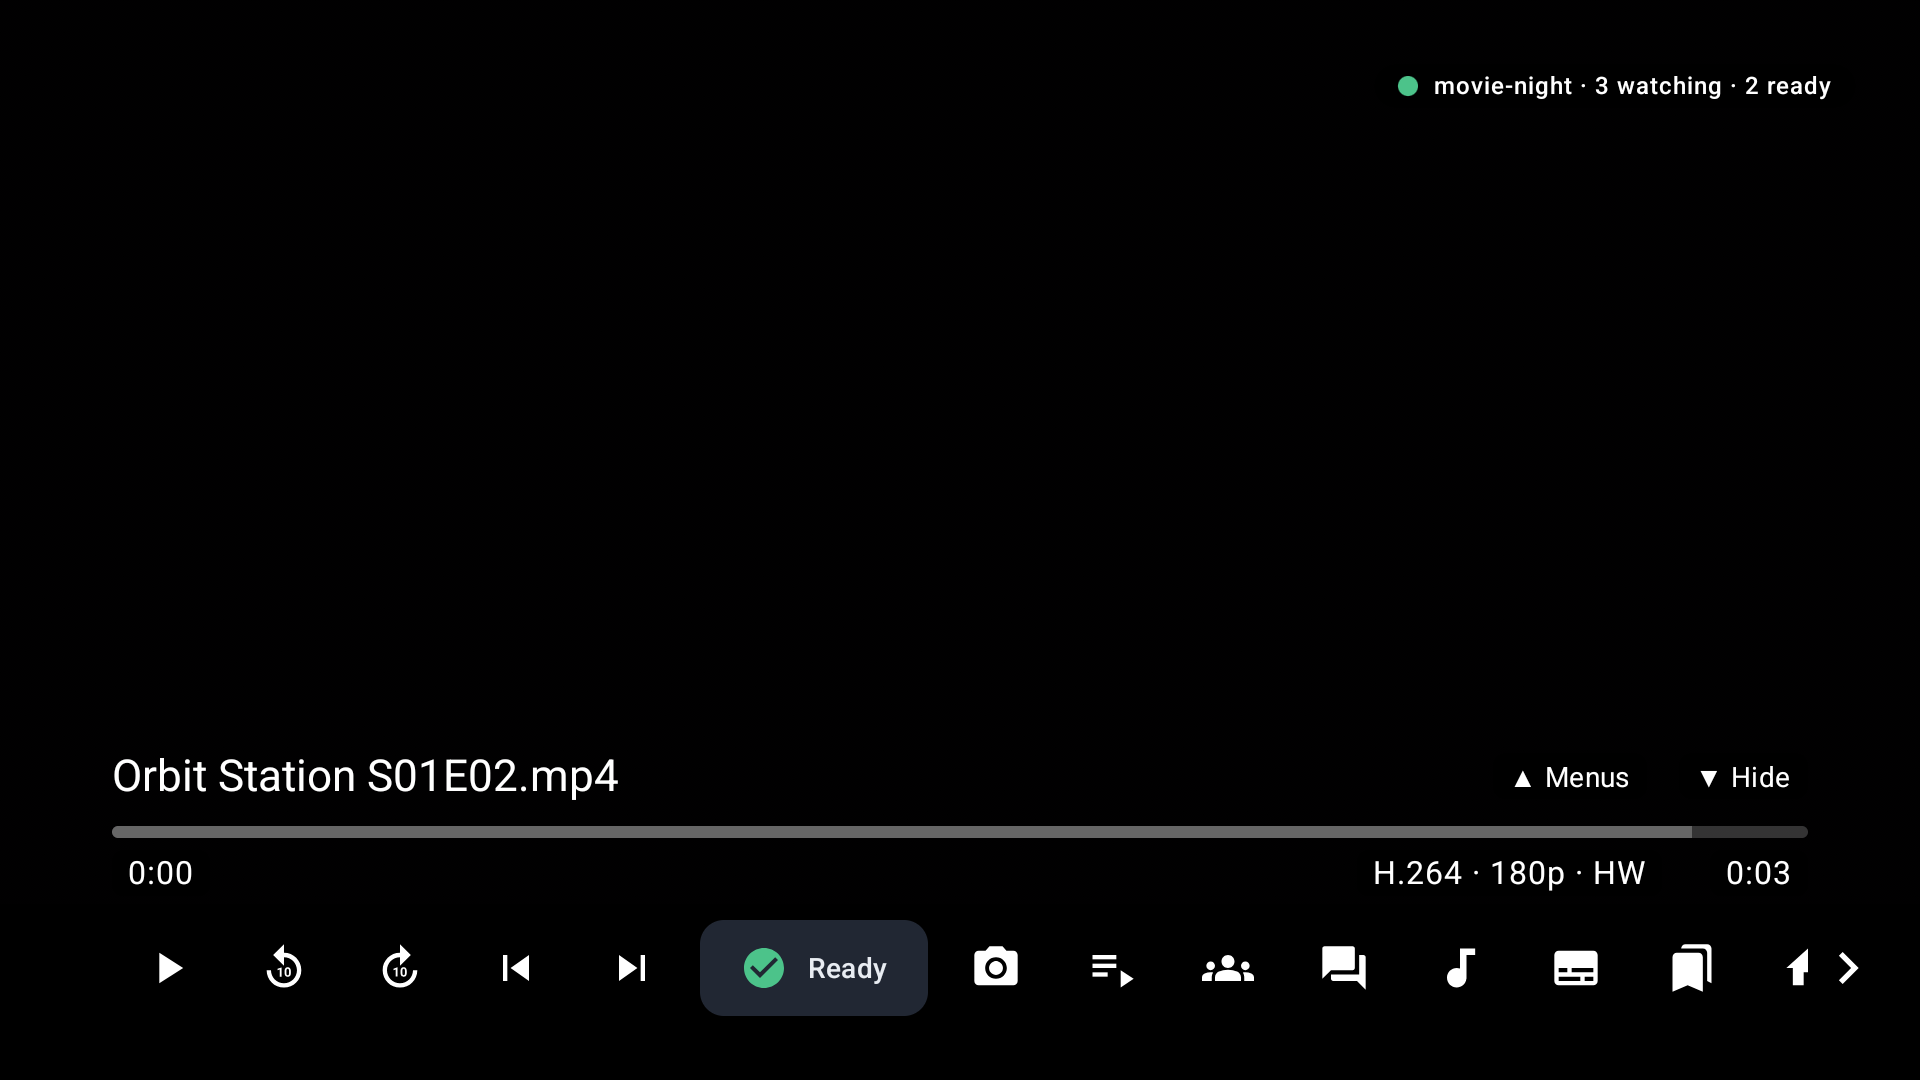
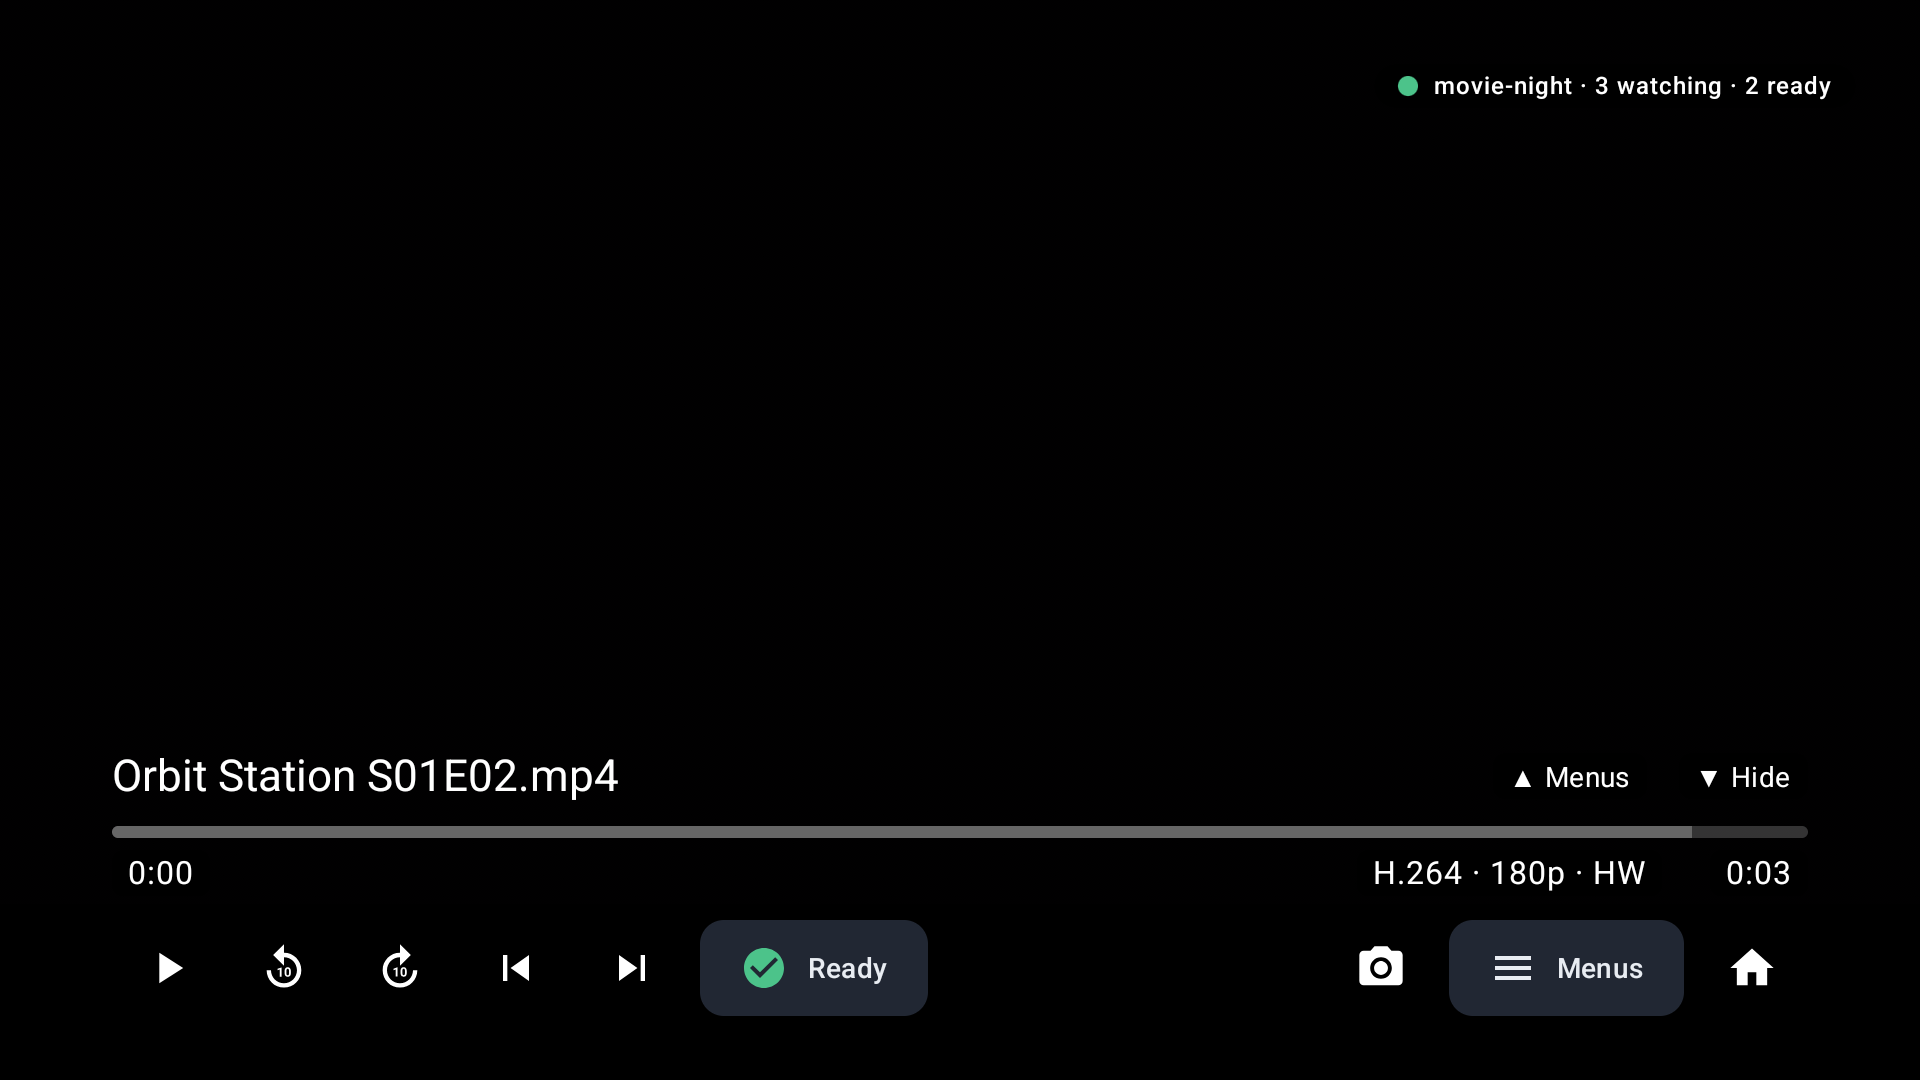
The TV player's controls have one Menus button in place of a button per menu, which opens the menu used last (its tabs switch to the others, and OK on a tab goes into it), so every button fits in one row

diff --git a/app/src/androidTest/java/com/yarmiplaytv/tv/TvNavigationTest.kt b/app/src/androidTest/java/com/yarmiplaytv/tv/TvNavigationTest.kt
@@ -284,63 +284,45 @@ class TvNavigationTest {
 
         tv.key(KeyEvent.KEYCODE_DPAD_CENTER)
         tv.awaitFocus("Play/pause")
-        // Left to right: play/pause, back 10 s, forward 10 s, the playlist's previous and next entry, ready, screenshot,
-        // then the panel buttons.
-        val row = listOf("Back", "Forward", "Previous in the playlist", "Next in the playlist", "Ready", "Screenshot", "Shared playlist", "Room", "Chat", "Audio", "Subtitles")
-        // What gets focus when each panel opens; TEXT_FIELD is the chat's message field.
-        val panels = listOf("Shared playlist" to Scenarios.CLIP_NAME, "Room" to "I'm ready", "Chat" to TEXT_FIELD, "Audio" to "", "Subtitles" to "Off")
-        for ((button, focused) in panels) {
-            for (next in row.subList(0, row.indexOf(button) + 1)) {
-                tv.key(KeyEvent.KEYCODE_DPAD_RIGHT)
-                tv.awaitFocus(next)
-            }
-            tv.key(KeyEvent.KEYCODE_DPAD_CENTER)
-            when (button) {
-                "Shared playlist" -> { tv.await("everyone sees these changes"); tv.await("File size differs from Alex's") }
-                "Room" -> tv.await("Different size than yours")
-                "Chat" -> tv.await("Give me a minute")
-                "Audio" -> tv.await("Audio")
-                else -> Unit
-            }
-            when (focused) {
-                TEXT_FIELD -> tv.awaitFocusedTextField()
-                "" -> Unit
-                else -> tv.awaitFocus(focused)
-            }
-            // Back closes the panel, straight back to the video.
-            tv.back()
-            tv.awaitGone(HIDE_HINT)
-            tv.key(KeyEvent.KEYCODE_DPAD_CENTER)
-            tv.awaitFocus("Play/pause")
+        // Left to right, all in one row: play/pause, back 10 s, forward 10 s, the playlist's previous and next entry,
+        // ready, screenshot, the menus, browse.
+        for (next in listOf("Back", "Forward", "Previous in the playlist", "Next in the playlist", "Ready", "Screenshot", "Menus", "Browse")) {
+            tv.key(KeyEvent.KEYCODE_DPAD_RIGHT)
+            tv.awaitFocus(next)
         }
-        tv.back()
-        tv.awaitGone(HIDE_HINT)
-        // D-pad up with the controls hidden opens the panel used last; up again reaches its tab, and moving along
-        // the tabs switches panel.
-        tv.key(KeyEvent.KEYCODE_DPAD_UP)
-        tv.awaitFocus("Off")
-        tv.key(KeyEvent.KEYCODE_DPAD_UP)
-        tv.awaitFocus("Subtitles")
+        // Menus opens the room the first time.
         tv.key(KeyEvent.KEYCODE_DPAD_LEFT)
-        tv.awaitFocus("Audio")
+        tv.awaitFocus("Menus")
+        tv.key(KeyEvent.KEYCODE_DPAD_CENTER)
+        tv.awaitFocus("I'm ready")
+        tv.await("Different size than yours")
+        // Up reaches the room's tab, and moving along the tabs switches menu.
+        tv.key(KeyEvent.KEYCODE_DPAD_UP)
+        tv.awaitFocus("Room")
         tv.key(KeyEvent.KEYCODE_DPAD_LEFT)
+        tv.awaitFocus("Shared playlist")
+        tv.await("everyone sees these changes"); tv.await("File size differs from Alex's")
+        tv.key(KeyEvent.KEYCODE_DPAD_RIGHT, times = 2)
         tv.awaitFocus("Chat")
         tv.await("Give me a minute")
-        tv.key(KeyEvent.KEYCODE_DPAD_LEFT)
-        tv.awaitFocus("Room")
-        tv.await("Different size than yours")
+        tv.key(KeyEvent.KEYCODE_DPAD_RIGHT)
+        tv.awaitFocus("Audio")
+        tv.key(KeyEvent.KEYCODE_DPAD_RIGHT)
+        tv.awaitFocus("Subtitles")
         tv.key(KeyEvent.KEYCODE_DPAD_DOWN)
-        tv.awaitFocus("I'm ready")
-        // The focus stays in the panel: left goes nowhere behind it.
+        tv.awaitFocus("Off")
+        // The focus stays in the menu: left goes nowhere behind it.
         tv.key(KeyEvent.KEYCODE_DPAD_LEFT)
-        tv.awaitFocus("I'm ready")
-        // Menu closes it too, and up opens the room panel again.
-        tv.key(KeyEvent.KEYCODE_MENU)
-        tv.awaitGone("I'm ready")
-        tv.key(KeyEvent.KEYCODE_DPAD_UP)
-        tv.awaitFocus("I'm ready")
+        tv.awaitFocus("Off")
+        // Back closes it, straight back to the video; up opens the menu used last.
         tv.back()
-        tv.awaitGone("I'm ready")
+        tv.awaitGone("Off")
+        tv.awaitGone(HIDE_HINT)
+        tv.key(KeyEvent.KEYCODE_DPAD_UP)
+        tv.awaitFocus("Off")
+        // Menu closes it too.
+        tv.key(KeyEvent.KEYCODE_MENU)
+        tv.awaitGone("Off")
         // Down and Menu each show and hide the controls.
         for (key in listOf(KeyEvent.KEYCODE_DPAD_DOWN, KeyEvent.KEYCODE_MENU)) {
             tv.key(key)
@@ -349,14 +331,14 @@ class TvNavigationTest {
             tv.key(key)
             tv.awaitGone(HIDE_HINT)
         }
-        // Up from the controls' buttons opens the panel used last.
+        // Up from the controls' buttons opens the menu used last.
         tv.key(KeyEvent.KEYCODE_DPAD_CENTER)
         tv.awaitFocus("Play/pause")
         tv.key(KeyEvent.KEYCODE_DPAD_UP)
-        tv.awaitFocus("I'm ready")
+        tv.awaitFocus("Off")
         tv.awaitGone(HIDE_HINT)
         tv.back()
-        tv.awaitGone("I'm ready")
+        tv.awaitGone("Off")
         tv.awaitGone(HIDE_HINT)
         assertEquals(true, container.player.state.value.paused)
     }
@@ -381,8 +363,7 @@ class TvNavigationTest {
     }
 
     companion object {
-        private const val TEXT_FIELD = "<text field>"
-        private const val HIDE_HINT = "▼ Hide"
+            private const val HIDE_HINT = "▼ Hide"
         private val state = AppState()
         private lateinit var syncplay: FakeSyncplayServer
         private lateinit var jellyfin: FakeJellyfin

diff --git a/app/src/main/java/com/yarmiplaytv/ui/player/PlayerScreen.kt b/app/src/main/java/com/yarmiplaytv/ui/player/PlayerScreen.kt
@@ -40,6 +40,7 @@ import androidx.compose.material.icons.filled.Forum
 import androidx.compose.material.icons.filled.Forward10
 import androidx.compose.material.icons.filled.Groups
 import androidx.compose.material.icons.filled.Home
+import androidx.compose.material.icons.filled.Menu
 import androidx.compose.material.icons.filled.Pause
 import androidx.compose.material.icons.filled.PhotoCamera
 import androidx.compose.material.icons.filled.PictureInPictureAlt
@@ -320,11 +321,10 @@ fun PlayerScreen(container: AppContainer, nav: Navigator) {
                 container = container,
                 title = nowPlaying?.title ?: "Nothing playing",
                 controlsFocus = controlsFocus,
-                panels = panels,
                 pip = pip,
                 onTogglePause = ::togglePause,
                 onSeek = ::seekBy,
-                onOpenPanel = { openPanel(it) },
+                onOpenMenus = { openPanel(lastPanel) },
                 onHome = { nav.popTo(Screen.Home) },
                 modifier = Modifier.align(Alignment.BottomCenter).onSizeChanged { tvControlsHeight = with(density) { it.height.toDp() } },
             )
@@ -343,7 +343,7 @@ fun PlayerScreen(container: AppContainer, nav: Navigator) {
                     .focusGroup(),
             ) {
                 Column {
-                    PanelTabs(panels, side.kind, tabFocus, onFocusTab = { if (it != side.kind) openPanel(it, focusContent = false) })
+                    PanelTabs(panels, side.kind, tabFocus, onFocusTab = { if (it != side.kind) openPanel(it, focusContent = false) }, onClickTab = { openPanel(it) })
                     Box(Modifier.weight(1f)) {
                         when (side.kind) {
                             PanelKind.PLAYLIST -> PlaylistPanel(container, nav, panelFocus)
@@ -507,11 +507,11 @@ private fun ControlsBar(
     container: AppContainer,
     title: String,
     controlsFocus: FocusRequester,
-    panels: List<PanelKind>,
     pip: PictureInPicture,
     onTogglePause: () -> Unit,
     onSeek: (Double) -> Unit,
-    onOpenPanel: (PanelKind) -> Unit,
+    /** Opens the menu used last; its tabs switch to the others. */
+    onOpenMenus: () -> Unit,
     onHome: () -> Unit,
     modifier: Modifier = Modifier,
 ) {
@@ -585,15 +585,15 @@ private fun ControlsBar(
             if (pip.supported && state.fileLoaded) {
                 IconAction(Icons.Filled.PictureInPictureAlt, pictureInPictureLabel, pip.toggle, Modifier.testTag("pip"), tint = OnVideo.Text)
             }
-            panels.forEach { kind -> IconAction(kind.icon, kind.label, { onOpenPanel(kind) }, tint = OnVideo.Text) }
+            ActionButton("Menus", onOpenMenus, Modifier.testTag("menus"), icon = Icons.Filled.Menu)
             IconAction(Icons.Filled.Home, "Browse", onHome, tint = OnVideo.Text)
         })
     }
 }
 
 /**
- * The bar's buttons: [start] at the left and [end] at the right, or one after the other when they don't fit, in a row
- * that scrolls to whichever has the focus, with an arrow at each side that has more.
+ * The bar's buttons: [start] at the left and [end] at the right. They fit on a 1080p TV; with larger text they follow
+ * one another in a row that scrolls to whichever has the focus, with an arrow at each side that has more.
  */
 @Composable
 private fun ButtonRow(modifier: Modifier = Modifier, start: @Composable RowScope.() -> Unit, end: @Composable RowScope.() -> Unit) {
@@ -621,11 +621,17 @@ private fun MoreArrow(icon: ImageVector, modifier: Modifier) =
     Icon(icon, contentDescription = null, tint = OnVideo.Text, modifier = modifier.size(32.dp))
 
 /**
- * The panels' tabs, at the top of the open one: moving along them switches panel. Coming up from the panel, the
- * focus lands on its own tab, not whichever is above.
+ * The panels' tabs, at the top of the open one: moving along them switches panel, and OK goes into it. Coming up from
+ * the panel, the focus lands on its own tab, not whichever is above.
  */
 @Composable
-private fun PanelTabs(panels: List<PanelKind>, selected: PanelKind, tabFocus: Map<PanelKind, FocusRequester>, onFocusTab: (PanelKind) -> Unit) {
+private fun PanelTabs(
+    panels: List<PanelKind>,
+    selected: PanelKind,
+    tabFocus: Map<PanelKind, FocusRequester>,
+    onFocusTab: (PanelKind) -> Unit,
+    onClickTab: (PanelKind) -> Unit,
+) {
     Row(
         Modifier.padding(start = 24.dp, end = 24.dp, top = 20.dp)
             .focusProperties { onEnter = { tabFocus.getValue(selected).requestFocus() } }
@@ -635,7 +641,7 @@ private fun PanelTabs(panels: List<PanelKind>, selected: PanelKind, tabFocus: Ma
         panels.forEach { kind ->
             val current = kind == selected
             Surface(
-                onClick = { onFocusTab(kind) },
+                onClick = { onClickTab(kind) },
                 modifier = Modifier.size(48.dp).focusRequester(tabFocus.getValue(kind)).onFocusChanged { if (it.isFocused) onFocusTab(kind) }.testTag("panel_tab_${kind.name.lowercase()}"),
                 shape = ClickableSurfaceDefaults.shape(CircleShape),
                 colors = ClickableSurfaceDefaults.colors(

diff --git a/app/src/androidTest/java/com/yarmiplaytv/tv/TvScreenshotTest.kt b/app/src/androidTest/java/com/yarmiplaytv/tv/TvScreenshotTest.kt
@@ -149,6 +149,8 @@ class TvScreenshotTest {
         shot("player")
         tv.key(KeyEvent.KEYCODE_DPAD_CENTER); tv.await("0:00")
         shot("player_controls", ignore = listOf(SEEK_BAR_CACHE_END))
+        // Menus opens the room; each menu's tab switches to it.
+        tv.click("Menus"); tv.await("I'm ready")
         val panels = listOf("Shared playlist" to "playlist", "Room" to "room", "Chat" to "chat", "Audio" to "audio", "Subtitles" to "subtitles")
         for ((label, slug) in panels) {
             tv.click(label)
@@ -162,8 +164,6 @@ class TvScreenshotTest {
                 },
             )
             shot("player_panel_$slug")
-            tv.back() // straight back to the video
-            tv.key(KeyEvent.KEYCODE_DPAD_CENTER); tv.awaitFocus("Play/pause")
         }
         Screenshots.assertAllMatched()
     }

diff --git a/docs/manual.md b/docs/manual.md
@@ -172,7 +172,8 @@ Syncplay client's media directories. On a computer you can also drop files on th
 
 Tap or move the mouse to show the controls: play and pause, back and forward (double-tap the left or right side
 of the video on a phone), the previous and next playlist entry, the seek bar and the volume. The buttons at the
-bottom open the shared playlist, the room, the chat, audio tracks, subtitles and MyAnimeList. Dragging along the
+bottom open the shared playlist, the room, the chat, audio tracks, subtitles and MyAnimeList (on a TV, the
+**Menus** button opens them). Dragging along the
 seek bar, or holding the mouse over it, shows the time there, and for a video on your device a picture of that
 moment too.
 
@@ -200,12 +201,11 @@ Settings > Playback can also stop showing the button.
 
 ### The remote on a TV
 
-- **OK** or **↓**: show the controls; **↓** past their buttons or **Back** hides them again. When the buttons don't
-  all fit, the row scrolls as you move along it, and an arrow at its side shows there are more.
+- **OK** or **↓**: show the controls; **↓** past their buttons or **Back** hides them again.
 - **←** / **→**: back or forward, while the controls are hidden
-- **↑**: open the panel you used last (the room the first time), with the controls hidden or from their buttons.
-  The panel's tabs at its top switch to the shared playlist, the room, the chat, audio, subtitles or
-  MyAnimeList as you move along them. **Back** or **Menu** closes the panel, straight back to the video.
+- **↑**, or the **Menus** button in the controls: open the menu you used last (the room the first time). Its tabs
+  at the top switch to the shared playlist, the room, the chat, audio, subtitles or MyAnimeList as you move along
+  them, and **OK** on a tab goes into that menu. **Back** or **Menu** closes it, straight back to the video.
 - **Play/pause**, **fast-forward**, **rewind**, **next** and **previous** keys work at any time; the captions key
   switches subtitles.
 
